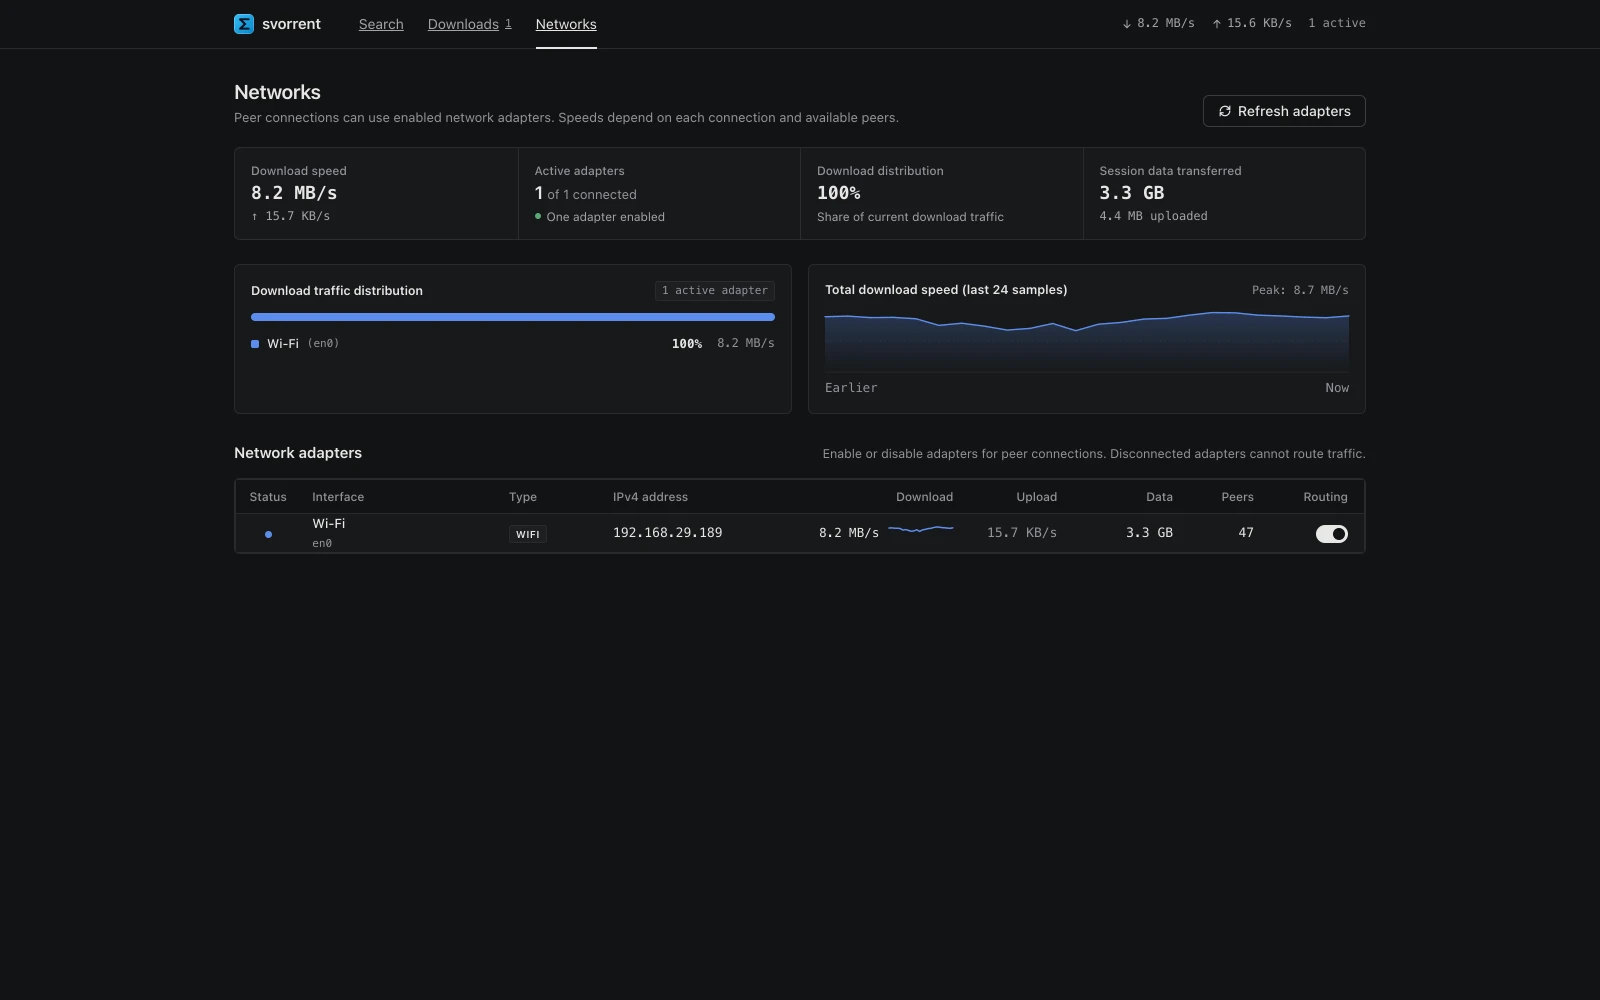
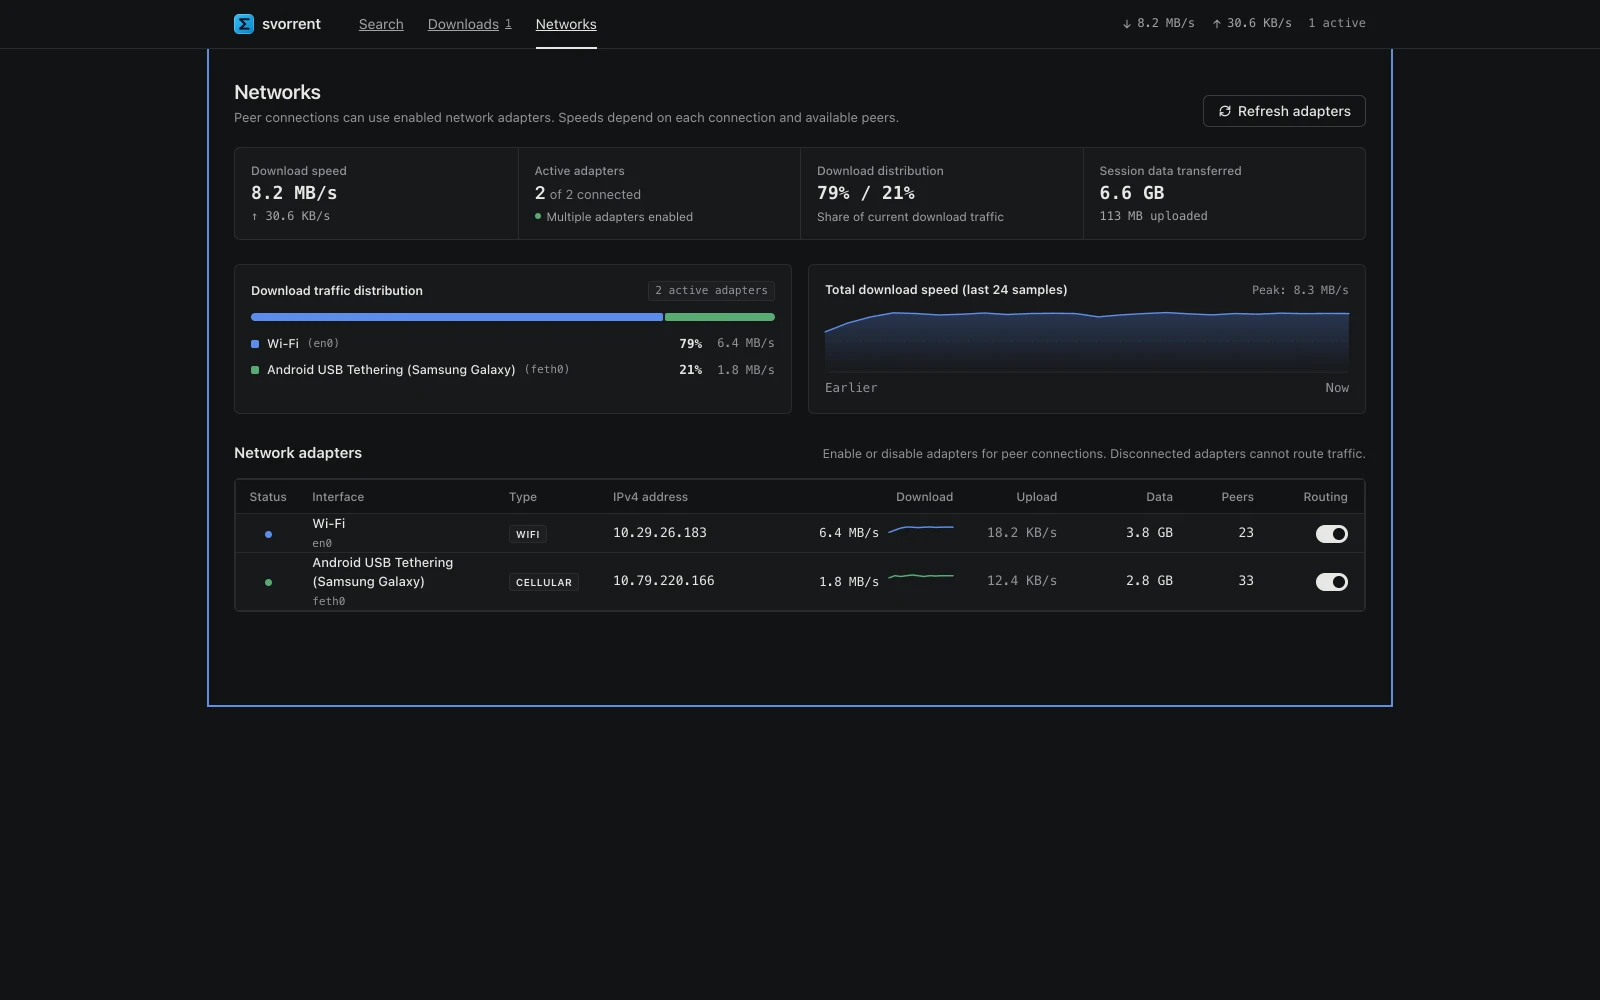
docs: replace single-adapter networks screenshot with multi-bonding and simplify architecture flowchart

diff --git a/README.md b/README.md
@@ -192,99 +192,58 @@ The following diagram details the interconnectivity between the client interface
 
 ```mermaid
 flowchart TD
-    subgraph Client["Frontend Client (React UI — Embedded :3001 / Dev :5173)"]
-        UI_Search["Search Engine<br/>(Query dispatch & deduplication)"]
-        UI_Queue["Downloads Manager<br/>(Progress, playability hover & stream controls)"]
-        UI_Details["Torrent Details<br/>(Tracker list, piece map, file tree)"]
-        UI_Swarm["Swarm Modal<br/>(SVG vector map, piece availability & peer table)"]
-        UI_Net["Network Monitor<br/>(Adapter status & traffic sparklines)"]
+    subgraph Client["1. Client Presentation Layer (React 19)"]
+        UI["<b>Single-Page Web Application</b><br/>Search Engine · Download Manager · Swarm Modal & Map · Networks Monitor"]
     end
 
-    subgraph Server["Backend Core (Express :3001)"]
-        Firewall["Loopback Firewall<br/>(local-access.js origin & host validation)"]
-        API["REST API Router<br/>(/api/search, /api/torrents, /api/networks, /api/play)"]
-        SafePath["SafePath Sandbox<br/>(safe-path.js traversal containment)"]
-        DoH["DoH Resolver<br/>(doh.js anti-censorship DNS)"]
+    subgraph Gateway["2. Ingress & Security Gateway (Express :3001)"]
+        Firewall["<b>Loopback Firewall</b><br/>Host & origin validation (local-access.js)"]
+        API["<b>REST API Router</b><br/>/api/search · /api/torrents · /api/networks · /api/play"]
+        SafePath["<b>SafePath Sandbox</b><br/>Directory traversal containment (safe-path.js)"]
+        DoH["<b>DoH Resolver</b><br/>DNS-over-HTTPS anti-censorship lookup (doh.js)"]
 
-        subgraph TorrentEngine["Torrent Engine"]
-            WT["WebTorrent Client<br/>(Sequential piece priority & chunk assembly)"]
-            Bitfield["Bitfield Analyzer<br/>(8-bit popcount table & completion state)"]
-            Session["Session Manager<br/>(Fast-resume checkpoints & disk sync)"]
-        end
-
-        subgraph MediaEngine["Buffer-Free Playability Engine"]
-            Calc["Dynamic Buffer & ETA Evaluator<br/>(playability.js throughput EMA & streaming gate)"]
-            Probe["ffprobe Metadata Extractor<br/>(Container runtime & bitrate inspection)"]
-            Launcher["Player Spawn Controller<br/>(Native VLC execution via OS process)"]
-        end
-
-        subgraph NetLayer["Multi-Network Bonding Layer (networks.js)"]
-            NetMgr["Interface Coordinator<br/>(Adapter discovery & IP binding registry)"]
-            SocketHook["Socket Interceptor<br/>(net.connect localAddress striping)"]
-            Keepalive["Cellular Keepalive<br/>(Proactive UDP heartbeats)"]
-            Telemetry["Traffic Accounting<br/>(Per-adapter upload & download distribution)"]
-        end
+        Firewall -->|Validate 127.0.0.1| API
+        API -->|Sanitize paths| SafePath
+        API -->|Anti-censorship DNS| DoH
     end
 
-    subgraph OS["Operating System & Local Resources"]
-        IF_WiFi["Wi-Fi Adapter (en0)"]
-        IF_Tether["USB Cellular Tether (feth)<br/>(svorrent-tetherd / RNDIS)"]
-        IF_Eth["Ethernet / Secondary (en1)"]
-        Disk["Filesystem Storage<br/>(~/Downloads/Svorrent/)"]
-        VLC["VLC Media Player"]
+    subgraph Core["3. Core Engine Subsystems"]
+        WT["<b>BitTorrent Engine</b><br/>• Sequential piece assembly<br/>• 8-bit popcount bitfield analysis<br/>• Atomic fast-resume checkpoints"]
+        Play["<b>Buffer-Free Playability Engine</b><br/>• ffprobe runtime & bitrate extraction<br/>• Throughput EMA playback safety gate<br/>• Native VLC player launch controller"]
+        Bond["<b>Multi-Network Bonding Layer</b><br/>• Interface discovery & traffic telemetry<br/>• net.connect round-robin localAddress striping<br/>• Proactive cellular UDP keepalive"]
     end
 
-    subgraph Remote["External Network & Swarm"]
-        Trackers["Public Trackers & DHT"]
-        Peers["Distributed Peer Swarm"]
+    subgraph OS["4. Operating System & Local Resources"]
+        Disk[("<b>Filesystem Storage</b><br/>~/Downloads/Svorrent/")]
+        VLC["<b>Native VLC Media Player</b><br/>Direct process execution with stream URL"]
+        Nets["<b>Network Hardware Adapters</b><br/>Wi-Fi (en0) · USB Cellular Tether (feth) · Ethernet (en1)"]
     end
 
-    %% Inbound Security & Request Routing
-    UI_Search -->|Dispatch query| Firewall
-    UI_Queue -->|Poll telemetry & stream triggers| Firewall
-    UI_Details -->|Fetch file tree & trackers| Firewall
-    UI_Swarm -->|Request peer & GeoIP metrics| Firewall
-    UI_Net -->|Fetch adapter throughput| Firewall
+    subgraph External["5. External Network & Swarm"]
+        Trackers["<b>Public Trackers & DHT</b><br/>Announce, scrape & DoH resolution"]
+        Peers["<b>Distributed Peer Swarm</b><br/>Multi-homed TCP peer wire transfers"]
+    end
 
-    Firewall -->|Validate loopback 127.0.0.1| API
-    API -->|Sanitize file paths| SafePath
+    %% Inbound flow
+    UI -->|HTTP requests| Firewall
+
+    %% Gateway dispatches to engines
+    API -->|Torrent lifecycle & magnets| WT
+    API -->|Playability readiness & streaming| Play
+    API -->|Interface telemetry & toggles| Bond
+
+    %% Engines interactions with local resources
     SafePath <-->|Guarded read / write| Disk
+    WT <-->|Piece storage & resume| Disk
+    Play -->|Inspect media header & bitrate| Disk
+    Play -->|Safety gate satisfied: spawn| VLC
+    WT -->|Peer TCP sockets| Bond
+    Bond -->|Bind socket IP to active adapters| Nets
 
-    %% API Dispatches to Subsystems
-    API -->|Torrent lifecycle & magnet addition| WT
-    API -->|Adapter state & toggle control| NetMgr
-    API -->|Streaming playability requests| Calc
-    API -->|Anti-censorship DNS lookups| DoH
-
-    %% Torrent Engine orchestration
-    WT --> Bitfield
-    WT --> Session
-    Session <--> Disk
-    WT --> Disk
+    %% External connectivity
     DoH -->|Resolve announce hostnames| Trackers
     WT -->|Announce & scrape| Trackers
-
-    %% Playability flow
-    Calc -->|Inspect media header & bitrate| Probe
-    Probe <--> Disk
-    Calc -->|Streaming gate satisfied| Launcher
-    Launcher -->|Spawn process| VLC
-
-    %% Multi-network socket routing
-    NetMgr -->|Round-robin assignment| SocketHook
-    NetMgr -->|Cellular heartbeat| Keepalive
-    NetMgr -->|Track bytes in & out| Telemetry
-    Keepalive -->|Keep link active| IF_Tether
-
-    WT -->|Initiate peer socket| SocketHook
-    SocketHook -->|Bind socket IP| IF_WiFi
-    SocketHook -->|Bind socket IP| IF_Tether
-    SocketHook -->|Bind socket IP| IF_Eth
-
-    %% Uplinks to Remote Swarm
-    IF_WiFi -->|TCP Peer Wire| Peers
-    IF_Tether -->|TCP Peer Wire| Peers
-    IF_Eth -->|TCP Peer Wire| Peers
+    Nets -->|Striped peer wire traffic| Peers
 ```
 
 ---
